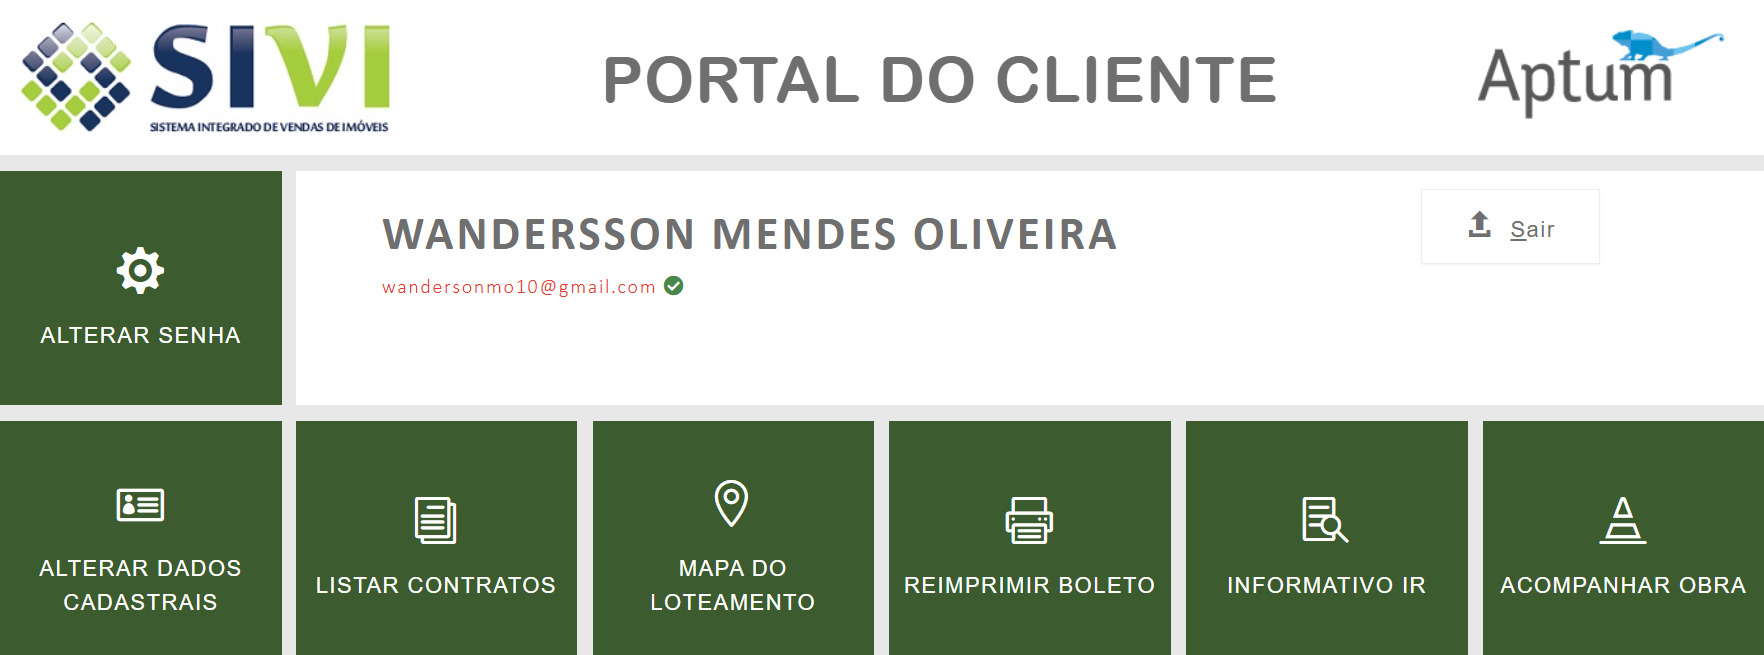
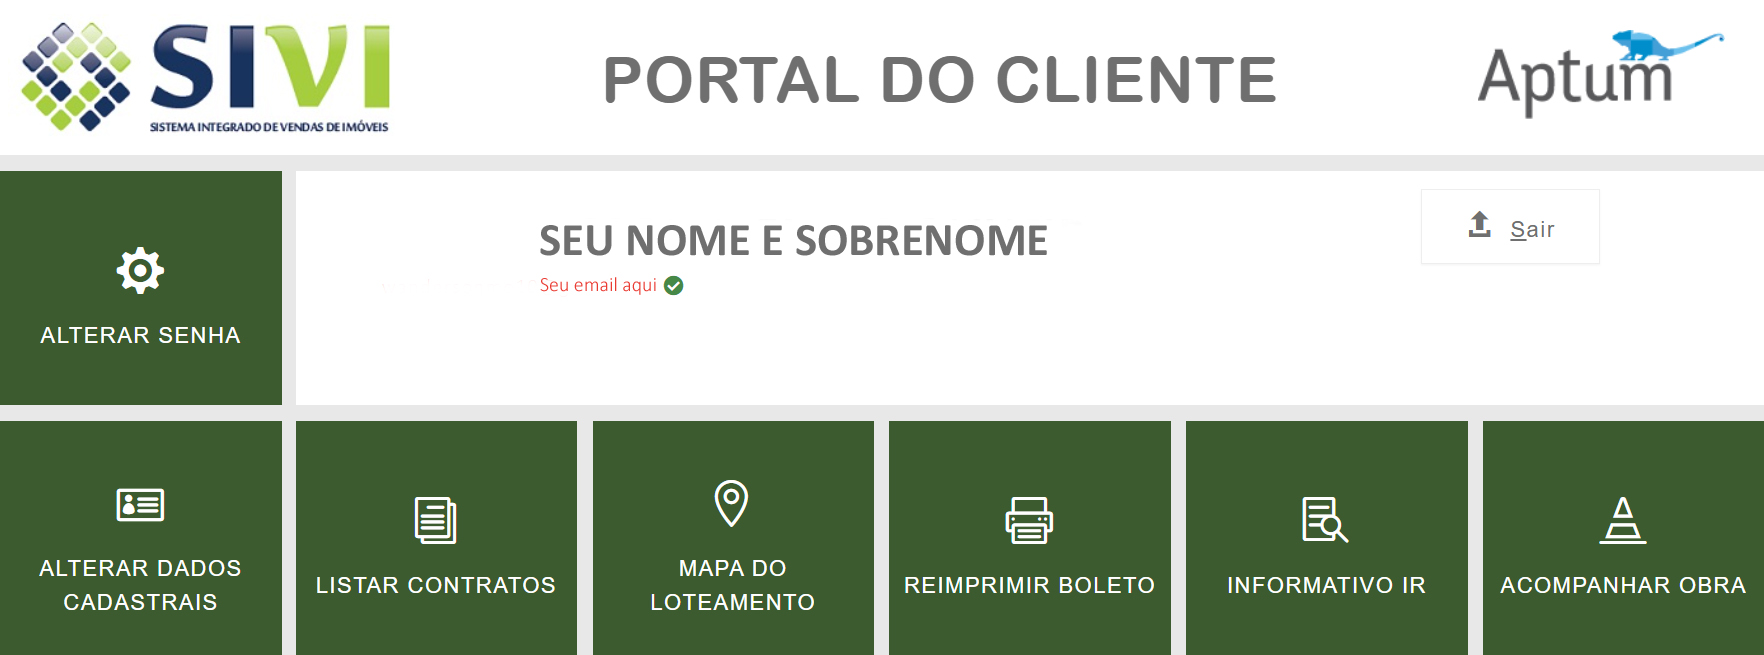
Atualizei footer e portal do cliente
Atualização geral no footer e portal do cliente

Changed region(s): [[0.2183, 0.3359, 0.6548, 0.3969], [0.2183, 0.4275, 0.3741, 0.458]]

diff --git a/css/main.css b/css/main.css
@@ -293,15 +293,15 @@ section.mapa-container iframe{
 .footer {
   background-color: #fefefe;
   color: #272424;
-  padding: 60px 20px 30px;
+  padding: 30px 20px 20px;
   font-family: 'Segoe UI', sans-serif;
-  border-top: 4px solid #D09D5B;
+  box-shadow: 0 10px 20px rgba(8, 8, 8, 0.39);
 }
 
 .footer-container {
   display: flex;
   flex-wrap: wrap;
-  gap: 40px;
+  gap: 30px;
   justify-content: space-between;
   max-width: 1200px;
   margin: auto;
@@ -310,13 +310,14 @@ section.mapa-container iframe{
 .footer-section {
   flex: 1 1 250px;
   min-width: 220px;
+  
 }
 
 .footer-section h2 {
+  text-align: left;
   font-size: 1.2rem;
   margin-bottom: 15px;
   color: #D09D5B;
-  border-bottom: 2px solid #D09D5B;
   padding-bottom: 5px;
 }
 
@@ -382,6 +383,33 @@ section.mapa-container iframe{
   color: #3f729b;
 }
 
+/* Botão "Voltar ao Topo" */
+#btn-topo {
+  position: fixed;
+  bottom: 20px; /* Fica acima do botão do WhatsApp */
+  left: 20px;
+  background-color: #C7473C;
+  color: white;
+  border: none;
+  border-radius: 50%;
+  width: 40px;
+  height: 40px;
+  display: none;
+  align-items: center;
+  justify-content: center;
+  font-size: 20px;
+  cursor: pointer;
+  z-index: 999;
+  box-shadow: 0 4px 8px rgba(0, 0, 0, 0.3);
+  transition: background-color 0.3s, transform 0.3s;
+}
+
+#btn-topo:hover {
+  background-color: #a8352f;
+  transform: scale(1.1);
+}
+
+
 /* Responsividade */
 @media (max-width: 768px) {
   .footer-container {
@@ -392,10 +420,21 @@ section.mapa-container iframe{
 
   .footer-section {
     max-width: 100%;
+    flex: 1 1 50px;
+    min-width: 220px;
+  }
+
+  .footer-section h2 {
+    text-align: center;
   }
 
   .footer-section .icons {
     justify-content: center;
+  }
+
+  #btn-topo {
+    left: auto;
+    right: 20px;
   }
 }
 

diff --git a/footer.html b/footer.html
@@ -15,7 +15,7 @@
   <footer class="footer">
     <div class="footer-container">
       
-      <div class="footer-section sobre">
+      <div class="footer-section">
         <h2>Horário de Atendimento</h2>
         <ul>
           <li><strong>Seg. à Sex.:</strong> 8h às 12h | 14h às 18h</li>
@@ -64,10 +64,15 @@
       </p>
     </div>
   </footer>
-  <!-- Ícone WhatsApp flutuante -->
-  <a href="https://wa.me/38992022019" class="whatsapp-icon" target="_blank" aria-label="Fale conosco pelo WhatsApp">
-    <img src="assets/icons/whatsapp.png" alt="WhatsApp">
-  </a>
-  <!-- Incluindo JS diretamente -->
+
+  <!-- Botão Voltar ao Topo -->
+<button id="btn-topo" aria-label="Voltar ao topo">
+  <i class="fas fa-arrow-up"></i>
+</button>
+
+<!-- Ícone WhatsApp flutuante -->
+<a href="https://wa.me/38992022019" class="whatsapp-icon" target="_blank" aria-label="Fale conosco pelo WhatsApp">
+  <img src="assets/icons/whatsapp.png" alt="WhatsApp">
+</a> <!-- Incluindo JS diretamente -->
 </body>
 </html>

diff --git a/js/modules/importarFooter.js b/js/modules/importarFooter.js
@@ -1,4 +1,26 @@
 
-fetch('footer.html')
-        .then(response => response.text())
-        .then(data => document.getElementById('footer').innerHTML = data);
+        fetch('footer.html')
+  .then(response => response.text())
+  .then(data => {
+    document.getElementById('footer').innerHTML = data;
+
+    // Agora que o footer foi carregado, podemos ativar o botão
+    const btnTopo = document.getElementById("btn-topo");
+
+    // Mostrar ou ocultar o botão
+    window.addEventListener("scroll", () => {
+      if (window.scrollY > 200) {
+        btnTopo.style.display = "flex";
+      } else {
+        btnTopo.style.display = "none";
+      }
+    });
+
+    // Rolagem suave para o topo
+    btnTopo.addEventListener("click", () => {
+      window.scrollTo({
+        top: 0,
+        behavior: "smooth"
+      });
+    });
+  });
